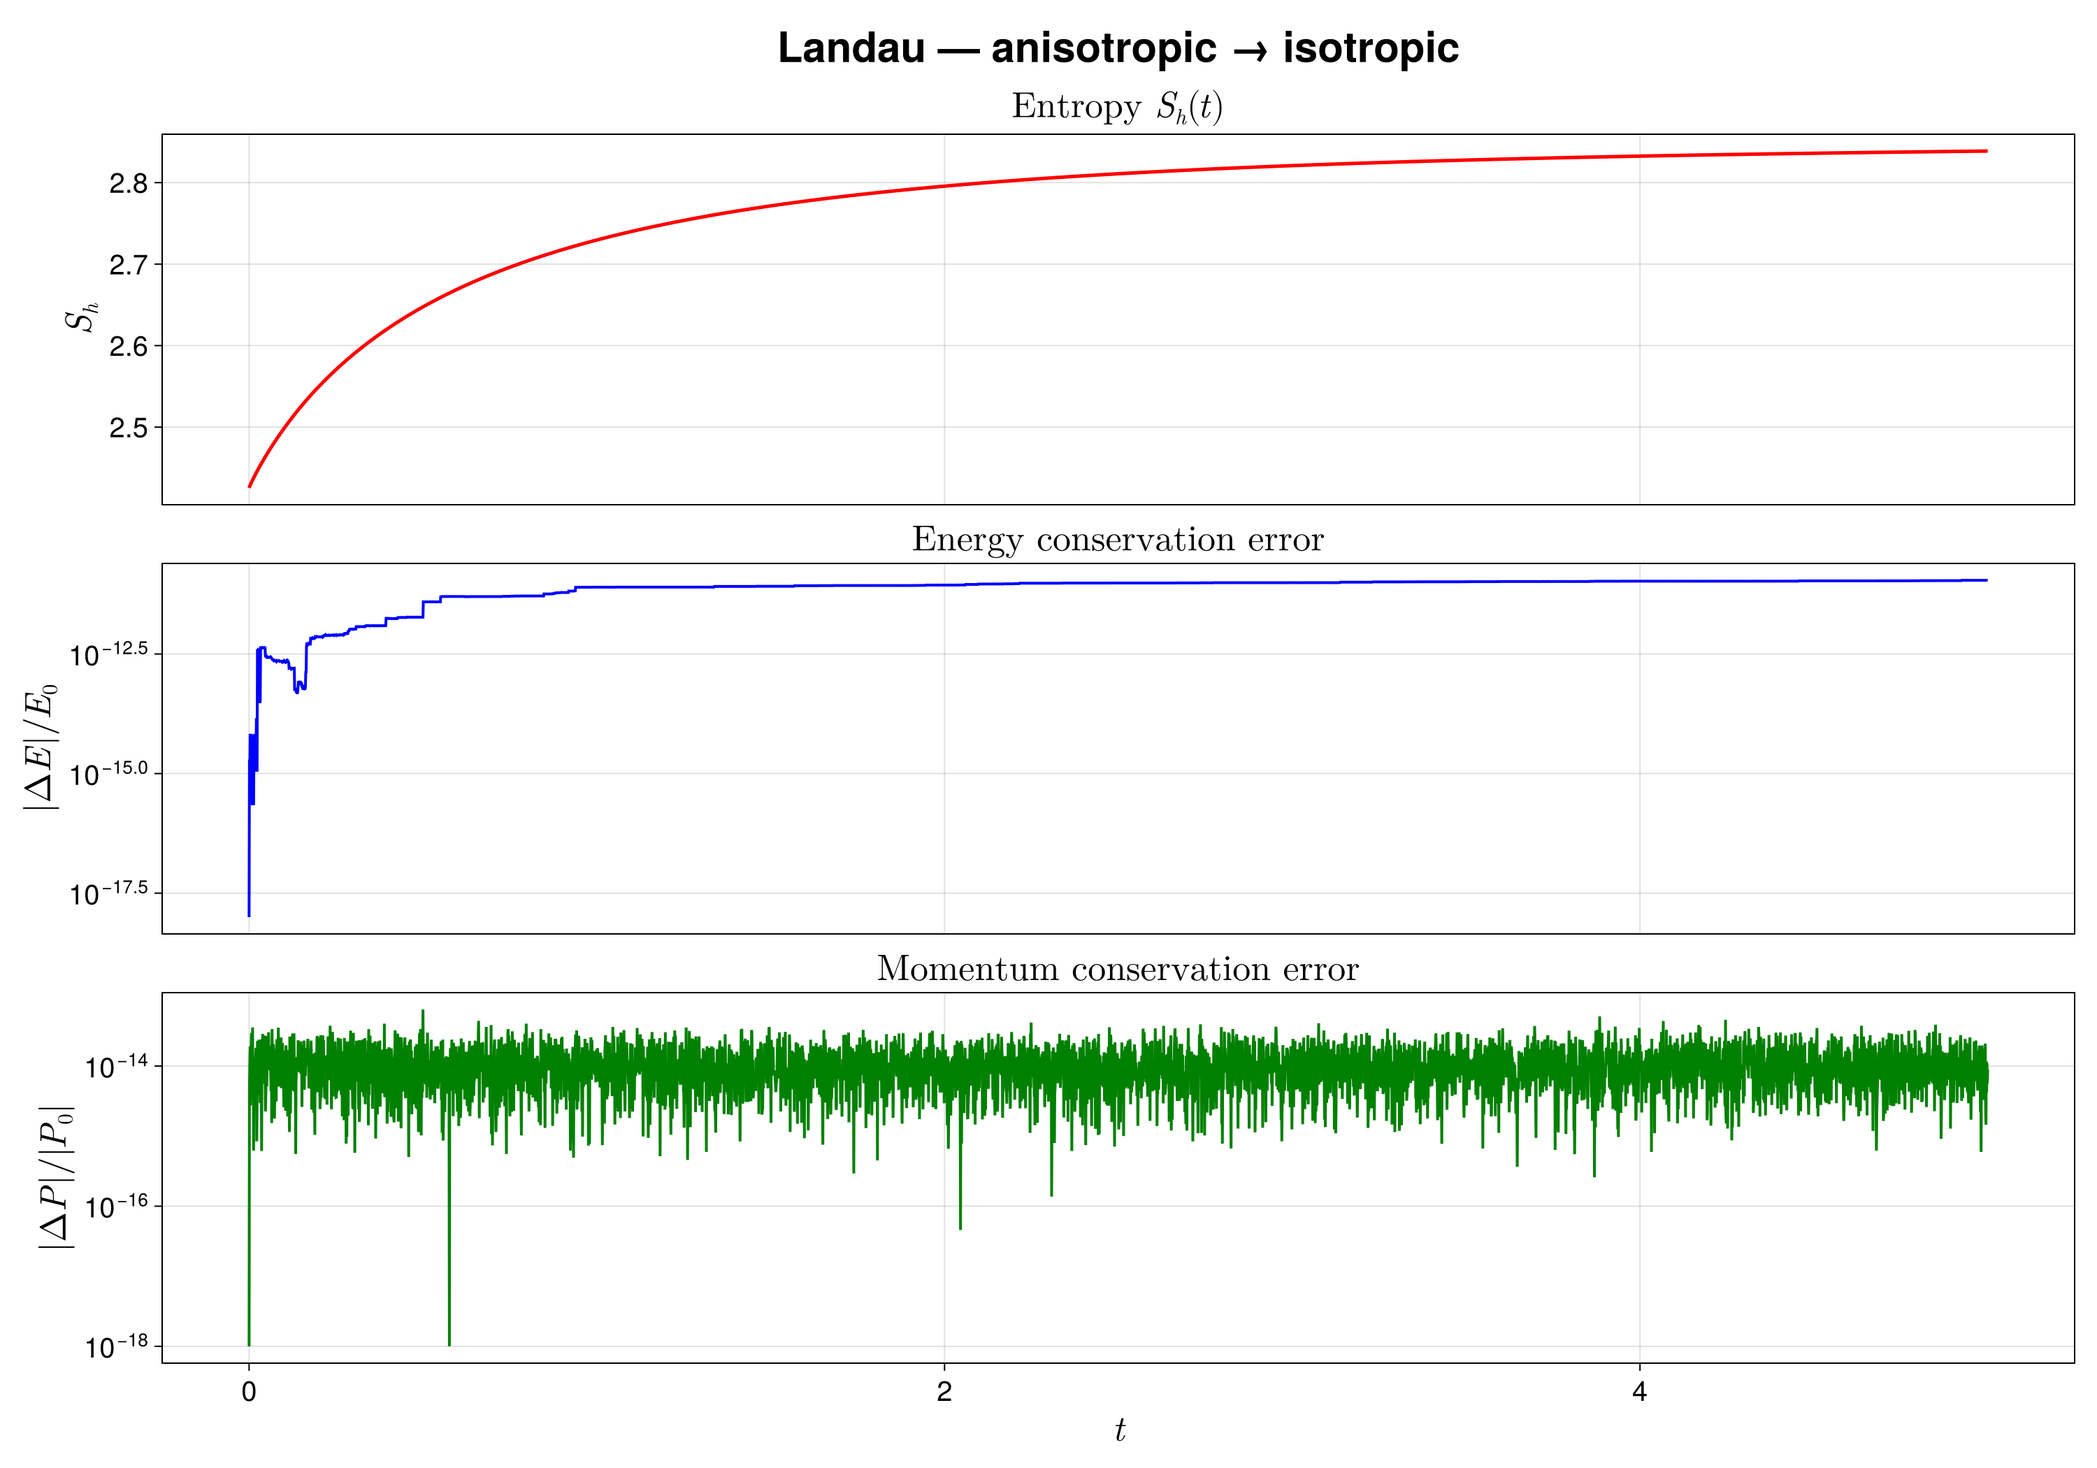
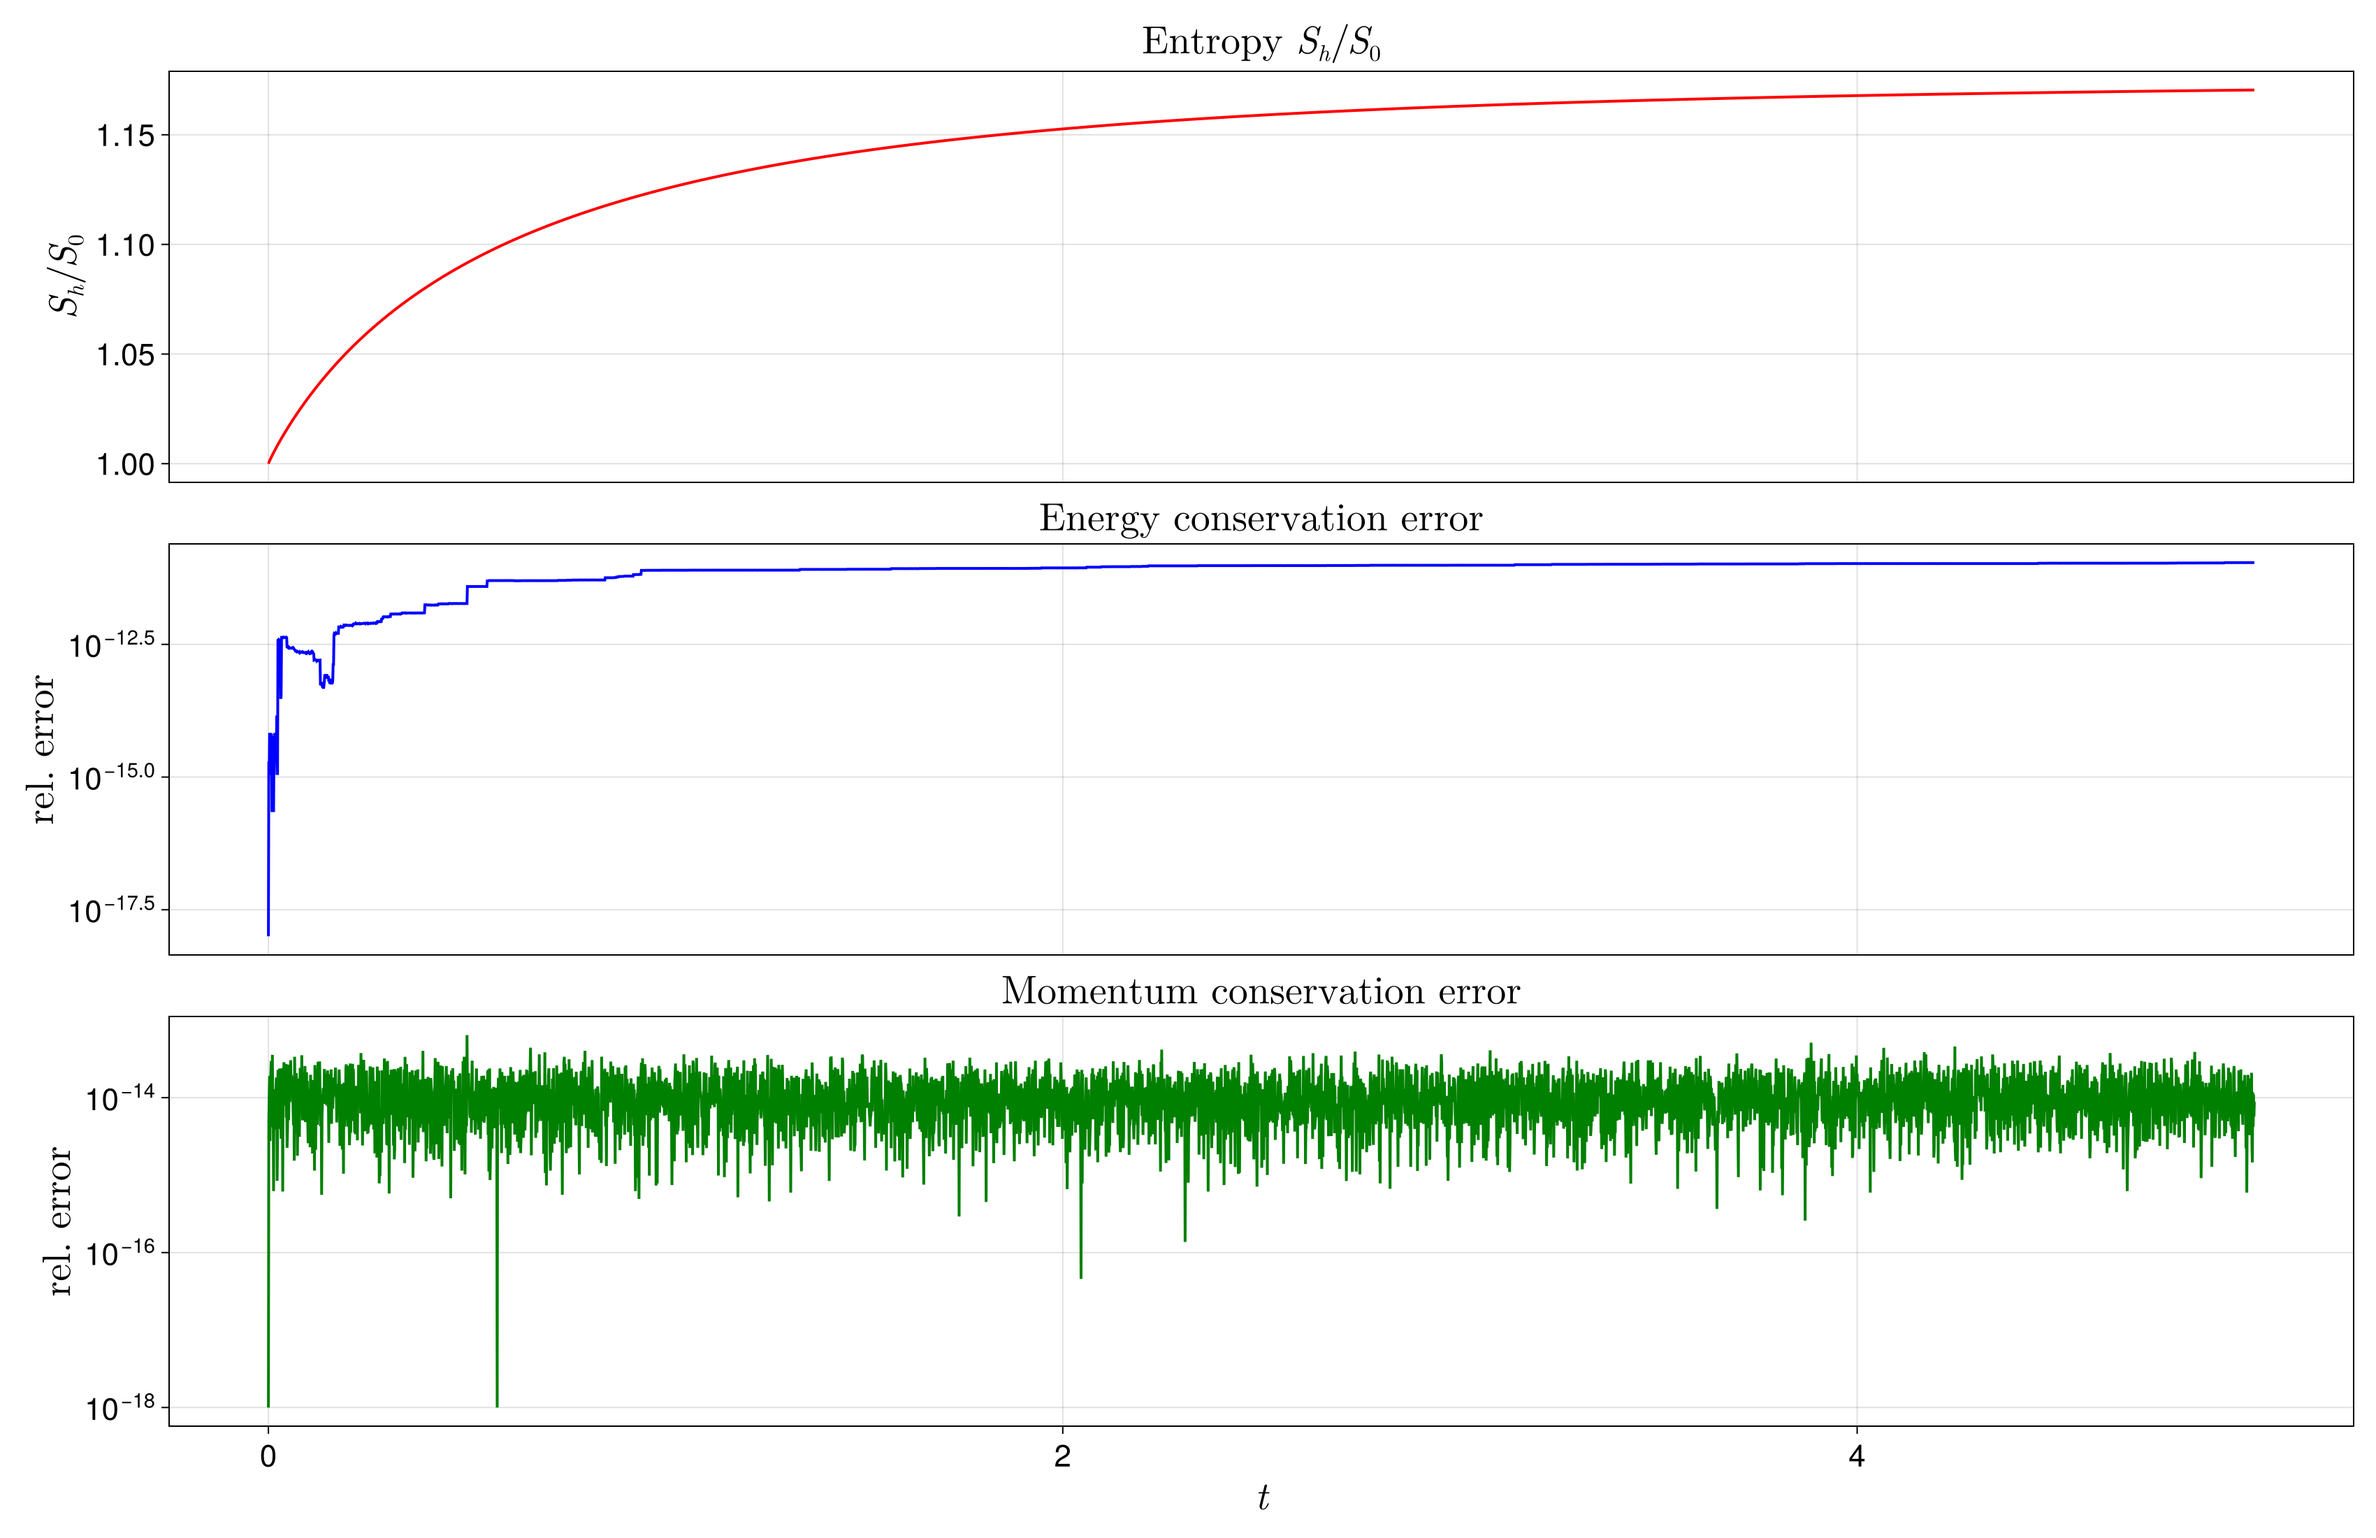
docs: fix bimodal example mesh + restyle conservation figures
The bimodal equilibrium is a single isotropic Maxwellian (σ=√3); the old
anisotropic mesh (v2 fine only over [-3,3]) clipped it and rendered a
distorted final blob. Re-run with a symmetric mesh (fine Δ=0.4 over [-5,5]
in both axes) so the round equilibrium resolves cleanly. Conservation
figures restyled to the 3-row dashboard convention (normalized S_h/S_0).

diff --git a/README.md b/README.md
@@ -115,12 +115,12 @@ Vector fields (`bp1`, `bp2`) are not CLI-overridable — edit the preset.
 ### Examples — Landau operator
 
 Two representative Landau runs (`collision_model=:landau`, Gonzalez integrator,
-N = 40 000 markers, Δt = 0.001). Both conserve energy and momentum to the
-solver floor and increase the discrete entropy monotonically.
+Δt = 0.001). Both conserve energy and momentum to the solver floor and increase
+the discrete entropy monotonically.
 
-**Anisotropic → isotropic.** A single anisotropic Gaussian (σ₁ = 4/3, σ₂ = 1/2)
-relaxes to an isotropic Maxwellian. Entropy rises monotonically while energy is
-conserved to `|ΔE|/E₀ ≲ 10⁻¹¹` and momentum to `≲ 10⁻¹⁴`:
+**Anisotropic → isotropic.** A single anisotropic Gaussian (σ₁ = 4/3, σ₂ = 1/2,
+40 000 markers) relaxes to an isotropic Maxwellian. Entropy rises monotonically
+while energy is conserved to `|ΔE|/E₀ ≲ 10⁻¹¹` and momentum to `≲ 10⁻¹⁴`:
 
 ![Landau anisotropic→isotropic conservation](assets/landau_aniso_conservation.png)
 
@@ -128,13 +128,19 @@ The distribution becomes round by t ≈ 2.5 (the elongation along v₁ washes ou
 
 ![Landau anisotropic→isotropic density evolution](assets/landau_aniso_distribution.png)
 
-**Bimodal relaxation.** A 50/50 mixture of `N(±2, 1)` in v₁ merges into a single
-centred Maxwellian. Entropy is monotone all the way to t ≈ 20 with the same
-machine-precision conservation:
+**Bimodal relaxation.** Two counter-streaming beams — a 50/50 mixture of
+`N(±2, 1)` in v₁ with v₂ ~ `N(0, 1)` (10 000 markers) — merge into a single
+centred Maxwellian. Momentum conservation forces the bulk velocity to zero, so
+all of the directed kinetic energy is converted into heat: the equilibrium is
+**isotropic with σ = √3 ≈ 1.732** (⟨v²⟩ = μ² + σ₁² + σ₂² = 6 is conserved).
+Entropy is monotone all the way to t ≈ 20 with the same machine-precision
+conservation:
 
 ![Landau bimodal conservation](assets/landau_bimodal_conservation.png)
 
-The two peaks coalesce into one Gaussian:
+The two peaks coalesce into a single round Gaussian spanning ≈ ±5 in both axes
+by t ≈ 20 — the mesh is sized symmetrically so the isotropic equilibrium is
+resolved without distortion:
 
 ![Landau bimodal density evolution](assets/landau_bimodal_distribution.png)
 
